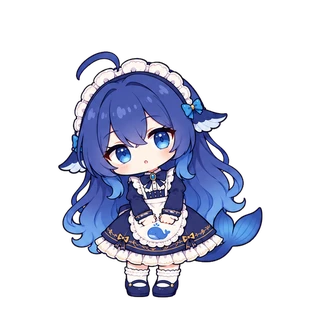
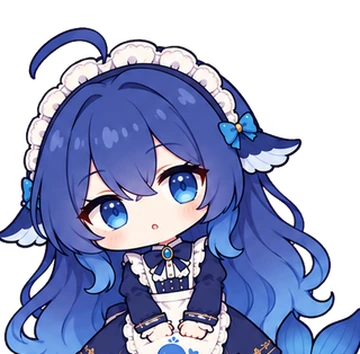
art: crop 大肥鱼 to matching half-body bust
The two characters looked like they were from different dimensions:
云澜 was a head-and-shoulders close-up while 大肥鱼 was a full-body
2.5-head-tall chibi with visible feet. Re-cropped all 8 大肥鱼
expressions to head-and-chest busts (same framing as 云澜), keeping
the rice bowl gesture in the eating frame. Both actors now use the
same 92px box.

diff --git a/stage.css b/stage.css
@@ -23,7 +23,7 @@
 }
 
 #yunlan-stage .actor-yunlan { left: 0; }
-#yunlan-stage .actor-df { right: 0; width: 96px; height: 96px; }
+#yunlan-stage .actor-df { right: 0; }
 
 #yunlan-stage .actor .face {
   position: absolute; inset: 0;
